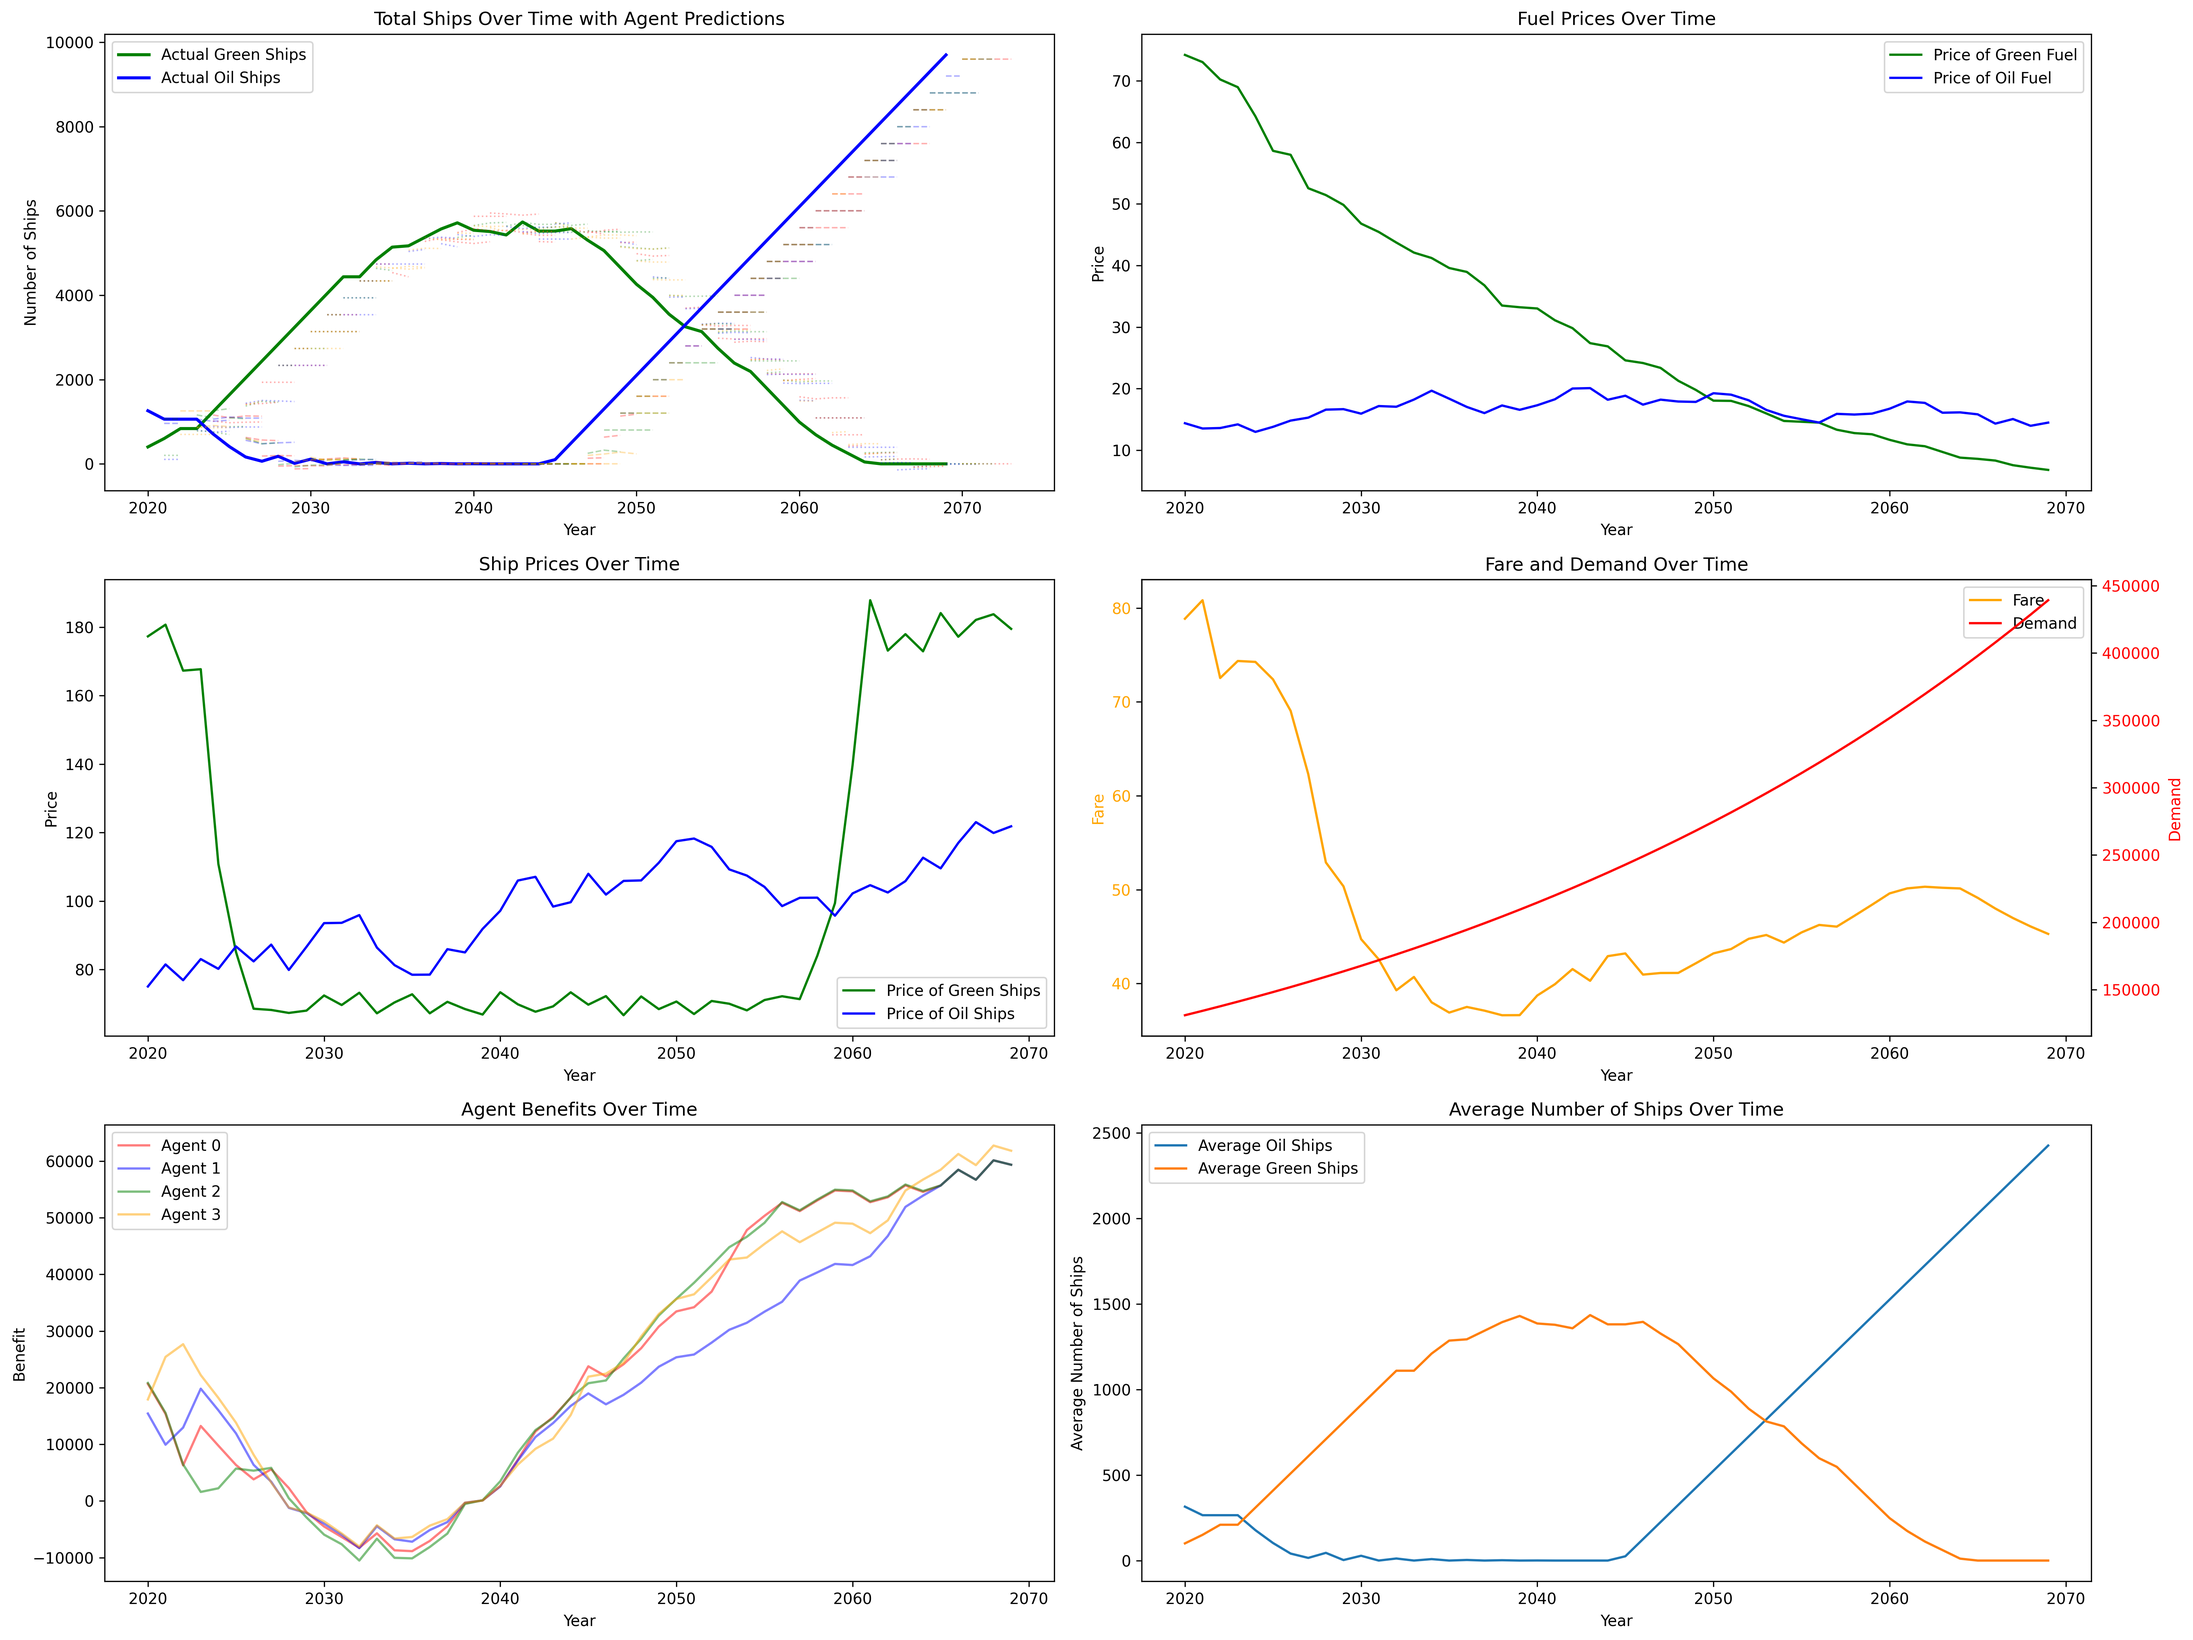
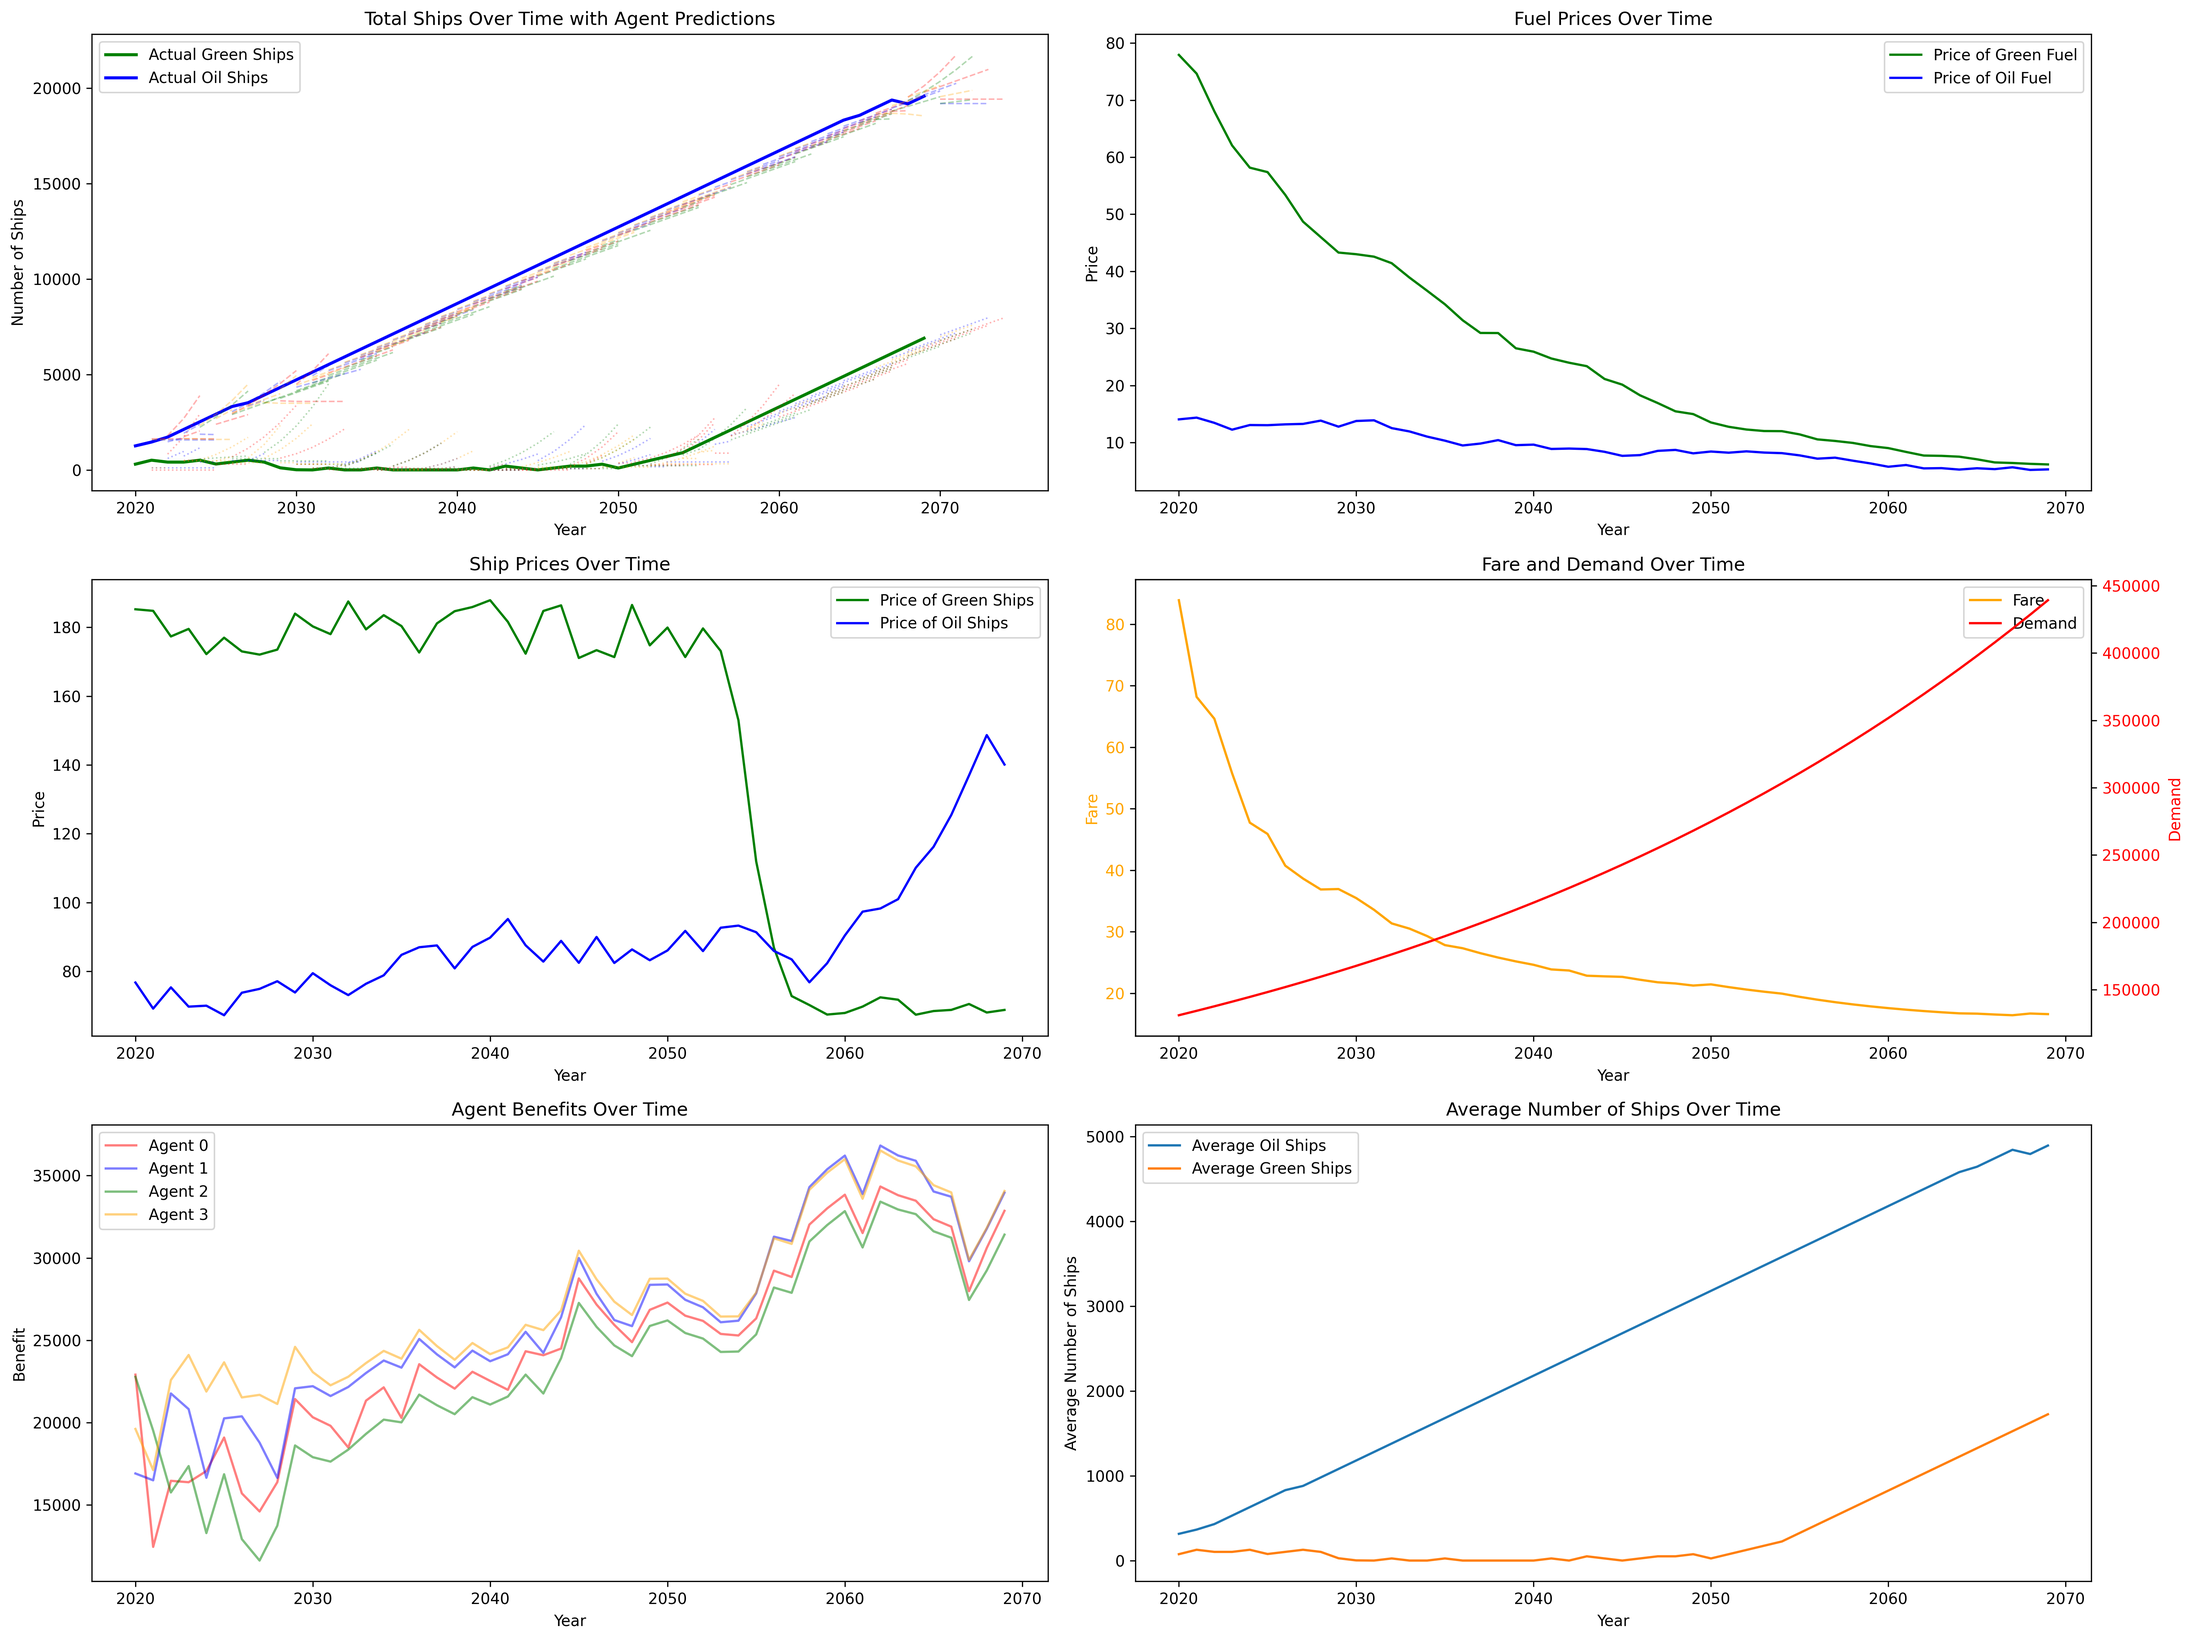
fix: 未来の船の数の予測ロジックを修正し、フィーベイト率の変化率を調整

diff --git a/linear_pred.py b/linear_pred.py
@@ -8,61 +8,6 @@ DISCOUNT_RATE = 0.05  # 割引率
 
 
 class CustomAgent(base.Agent):
-    def trade(self, env, other_agents):  # 売買
-        avg_green = sum(agent.n_green for agent in other_agents) / len(other_agents)
-        avg_oil = sum(agent.n_oil for agent in other_agents) / len(other_agents)
-        n_green_old = self.n_green
-        n_oil_old = self.n_oil
-
-        past_years = random.randint(2, 3)
-        future_years = random.randint(1, 5)
-
-        predict_n_oils, predict_n_greens = self.predict_n_future(env, other_agents, past_years, future_years) # 未来の船の数を予測(他のエージェントの合計)
-        self.history_predict_n_oil.append(predict_n_oils)
-        self.history_predict_n_green.append(predict_n_greens)
-        # print(f"Agent {self.ind}: Predicted {predict_n_oils} oil ships and {predict_n_greens} green ships in {future_years} years.")
-
-        max_benefit = -1e9 # 負の無限大（最大値を求めるため）
-        best_diff_oil = 0
-        best_diff_green = 0
-
-        test_case = 100 # 重油船、グリーン船の購入数の変動の幅
-        for diff_oil in range(-test_case,test_case+1, 2):
-            for diff_green in range(-test_case,test_case+1, 2):
-                n_oil = max(0, self.n_oil + diff_oil)
-                n_green = max(0, self.n_green + diff_green)
-                # predict_n_oils += n_oil
-                # predict_n_greens += n_green
-                predict_penalties, predict_rebates = self.predict_feebate_future(env, predict_n_oils, predict_n_greens, n_oil, n_green, future_years)
-
-                predict_costs = 0
-                predict_sales = 0
-                predict_benefits = 0
-                for i in range(future_years):
-                    predict_costs = (n_oil + diff_oil*i) * (1/20*env.pv_oil + env.p_oil) + (n_green + diff_green*i) * (1/20*env.pv_green + env.p_green)
-                    predict_fare = env.fare * 1.025 ** (i + 1) * env.total_n / (predict_n_oils[i] + predict_n_greens[i]) # 運賃の予測（需要が年率2.5%増加）
-                    predict_sales = (n_oil + diff_oil*i + n_green + diff_green*i) * predict_fare
-                    predict_benefits += (predict_sales - predict_costs - predict_penalties[i] + predict_rebates[i]) * (1 - DISCOUNT_RATE) ** (i + 1) # 割引現在価値
-                if predict_benefits > max_benefit:
-                    max_benefit = predict_benefits
-                    best_diff_oil = diff_oil
-                    best_diff_green = diff_green
-
-        self.n_green += best_diff_green
-        self.n_oil += best_diff_oil
-
-        if best_diff_oil == test_case or best_diff_oil == -test_case or best_diff_green == test_case or best_diff_green == -test_case:
-            # 購入数が最大値または最小値に達した場合、警告を表示
-            # print(f"Agent {self.ind}: The number of ships has reached the maximum or minimum value. Bought {best_diff_oil} oil ships and {best_diff_green} green ships.")
-            pass
-
-        self.n_oil = max(0, self.n_oil)
-        self.n_green = max(0, self.n_green)
-        self.history_oil.append(self.n_oil - n_oil_old)
-        self.history_green.append(self.n_green - n_green_old)
-
-
-
     def predict_n_future(self, env, agents, past_years, future_years):
         """
         過去past_years年間の特徴量を用いて、未来future_years年後の船の数を予測する
@@ -96,8 +41,8 @@ class CustomAgent(base.Agent):
         for j in range(future_years):
             if lack_of_history:
                 if j == 0:
-                    pred_n_oil[j] = random.randint(0,5)*len(agents)+env.total_n_oil
-                    pred_n_green[j] = random.randint(0,5)*len(agents)+env.total_n_green
+                    pred_n_oil[j] = random.randint(0,5)*len(agents)+env.total_n_oil*3/4
+                    pred_n_green[j] = random.randint(0,5)*len(agents)+env.total_n_green*3/4
                 else:
                     pred_n_oil[j] = pred_n_oil[0]
                     pred_n_green[j] = pred_n_green[0]
@@ -108,8 +53,8 @@ class CustomAgent(base.Agent):
                     pred_n_oil[j] = 0
                 if pred_n_green[j] < 0:
                     pred_n_green[j] = 0
-        pred_n_oil += env.total_n_oil
-        pred_n_green += env.total_n_green
+        pred_n_oil += env.total_n_oil*3/4
+        pred_n_green += env.total_n_green*3/4
 
         return pred_n_oil, pred_n_green
 

diff --git a/base.py b/base.py
@@ -29,11 +29,9 @@ class Agent:
         n_oil_old = self.n_oil
 
         past_years = random.randint(2, 3)
-        future_years = random.randint(1, 4)
+        future_years = random.randint(1, 5)
 
         predict_n_oils, predict_n_greens = self.predict_n_future(env, other_agents, past_years, future_years) # 未来の船の数を予測(他のエージェントの合計)
-        self.history_predict_n_oil.append(predict_n_oils)
-        self.history_predict_n_green.append(predict_n_greens)
         # print(f"Agent {self.ind}: Predicted {predict_n_oils} oil ships and {predict_n_greens} green ships in {future_years} years.")
 
         max_benefit = -1e9 # 負の無限大（最大値を求めるため）
@@ -61,7 +59,12 @@ class Agent:
                     max_benefit = predict_benefits
                     best_diff_oil = diff_oil
                     best_diff_green = diff_green
+                    best_predict_total_n_oils = predict_total_n_oils
+                    best_predict_total_n_greens = predict_total_n_greens
         
+        
+        self.history_predict_n_oil.append(best_predict_total_n_oils)
+        self.history_predict_n_green.append(best_predict_total_n_greens)
         self.n_green += best_diff_green
         self.n_oil += best_diff_oil
 
@@ -256,7 +259,7 @@ class Simulation:
         self.initial_fare = 144.8  # 最初の運賃
         self.initial_feebate_rate = 0.1  # フィーベイト率
 
-        self.FEEBATE_CHANGE_RATE = -0.1  # フィーベイト率の変化率
+        self.FEEBATE_CHANGE_RATE = 0  # フィーベイト率の変化率
 
         # N個のエージェントを作成
         self.agents = [Agent(i) for i in range(self.N)]
